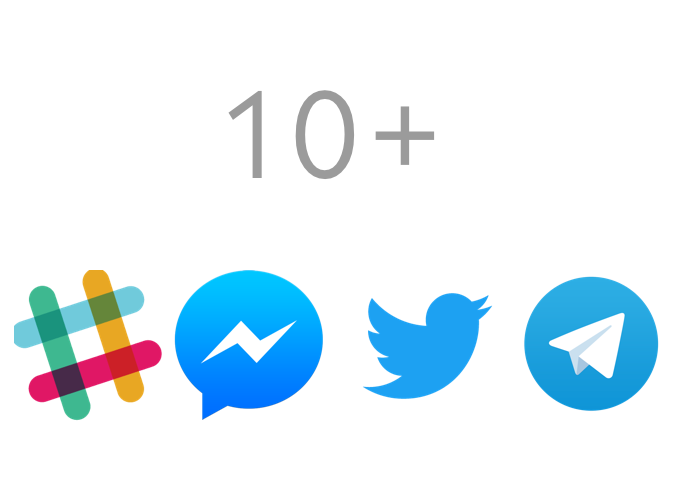
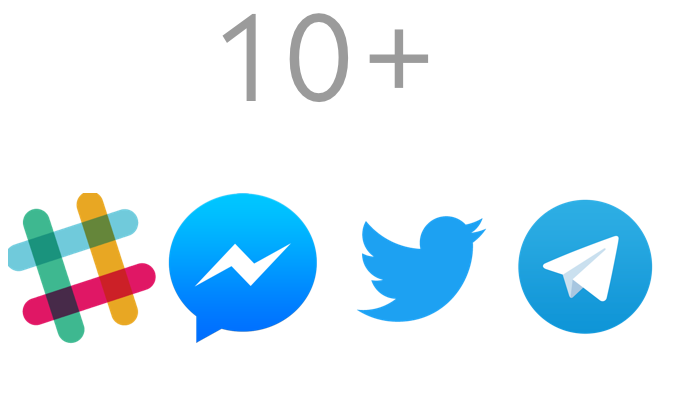
Padding .

diff --git a/index.html b/index.html
@@ -104,6 +104,10 @@
         margin: 0 auto;
         width: 320px;
       }
+
+      img {
+        margin-top: 75px;
+      }
     </style>
   </head>
   <body>
@@ -159,7 +163,7 @@ bot.start();
         <div class="section">
           <h3>Flexible</h3>
           <p>Integrate into your existing business logic</p>
-          <!-- Image -->
+          <img src="images/flexible.png"/>
         </div>
         <div class="install">
           <a href="https://github.com/BotKit-js/BotKit.js/wiki/Creating-a-new-project">Install</a>
